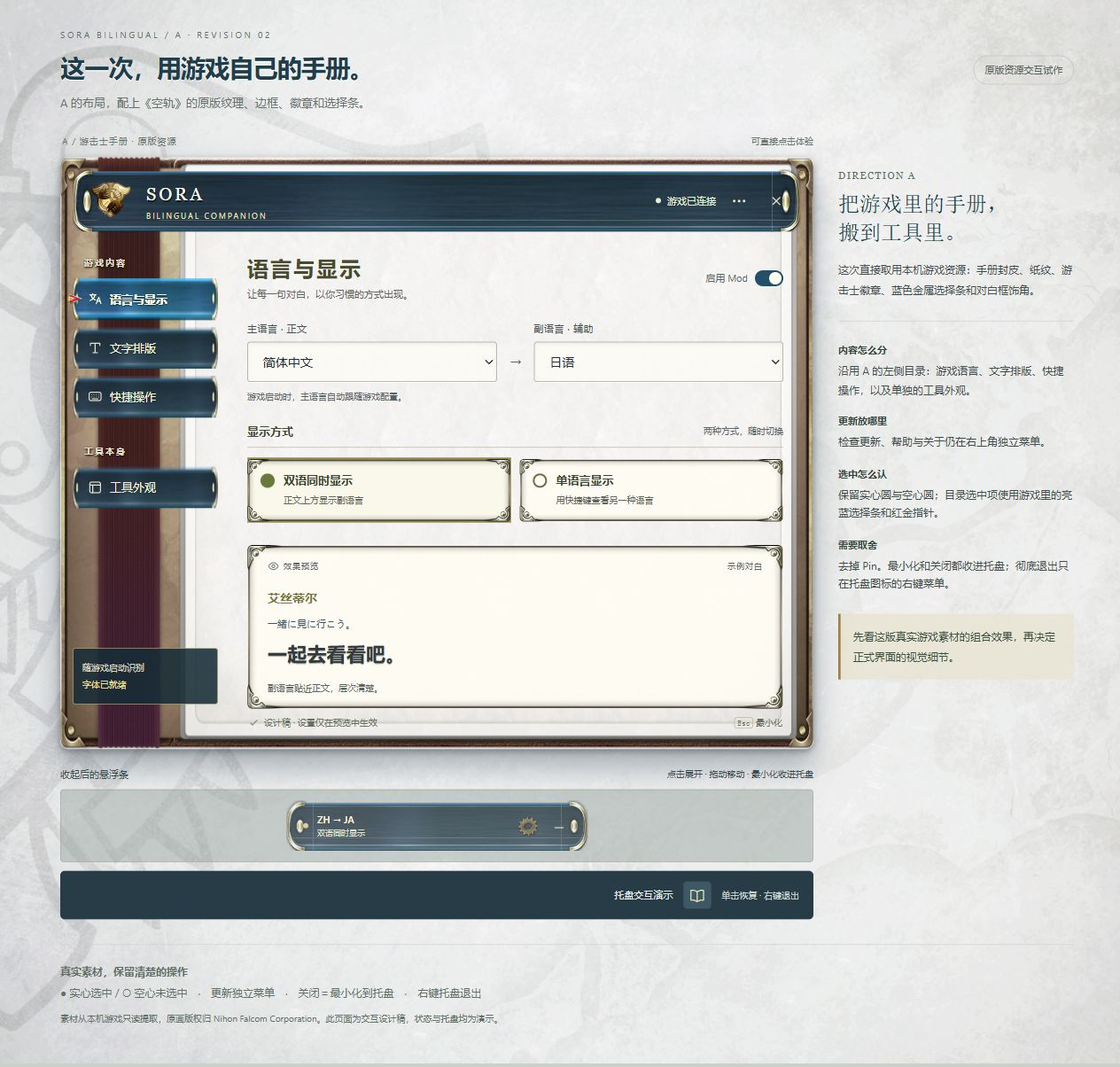
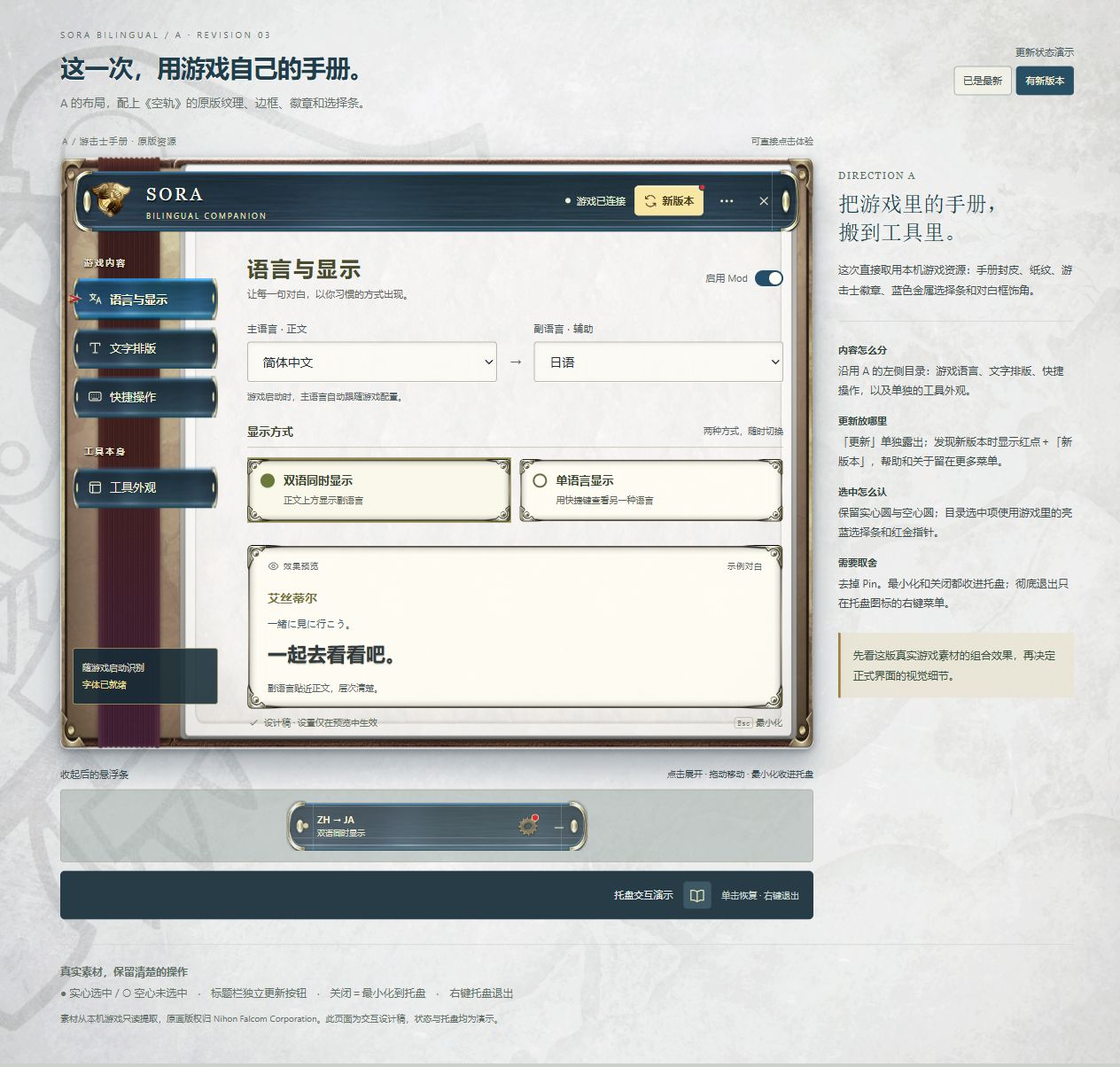
docs: 显示独立更新入口和新版本红点提示

diff --git a/docs/ui-concepts/concepts.js b/docs/ui-concepts/concepts.js
@@ -17,22 +17,22 @@ const paths={
 };
 const icon=n=>`<svg viewBox="0 0 24 24" aria-hidden="true">${paths[n]||paths.compass}</svg>`;
 const concepts={
- a:{name:'游击士手册',title:'熟悉的冒险，<br>更安静的设置。',text:'保留轨迹式手册的纸色、细金线与青绿点缀。用目录组织功能，把界面从“表单堆叠”变成一本小手册。',structure:'左侧分为「游戏内容」和「工具本身」，每页只处理一类任务。',updates:'右上角「更多」收纳检查更新、帮助与关于。',selection:'选中为青绿色实心圆；未选中为空心圆。背景轻微着色加强识别。',tradeoff:'目录占一点横向空间，换来更清楚的位置感。',recommend:'推荐 A：它最贴近游戏的气质，同时保留桌面工具应有的清晰与克制。'},
- b:{name:'清透面板',title:'一边调整，<br>一边看见。',text:'以冷白、浅灰和深蓝降低装饰感。把效果预览放在右侧，日常设置聚在左侧，调整更直接。',structure:'只留游戏文本、快捷操作、工具外观三组；排版从游戏文本页展开。',updates:'标题栏里的独立菜单，不占用任何内容页签。',selection:'深蓝实心圆＋淡蓝底；同组候选保持一致大小。',tradeoff:'最容易上手，但游戏风格较淡；并排预览需要稍宽的窗口。',recommend:'如果你更看重清爽和效率，选 B。分区简单，设置结果能随手对照。'},
- c:{name:'夜间控制台',title:'想调哪一项，<br>就展开哪一项。',text:'石墨底色搭配低饱和薄荷绿。将设置折叠成几段，收起时仍保留当前值，适合夜间和小屏幕。',structure:'一页四个折叠分组，常用语言默认展开，其他分组按需打开。',updates:'右上角工具菜单，更新与帮助不参与设置分组。',selection:'明亮的薄荷实心圆，暗底空心圆；不依赖细描边差异。',tradeoff:'多个分组展开后需要滚动；深色也更偏离游戏本身的纸色菜单。',recommend:'如果你经常夜间玩游戏、希望减少页面切换，选 C。'}
+ a:{name:'游击士手册',title:'熟悉的冒险，<br>更安静的设置。',text:'保留轨迹式手册的纸色、细金线与青绿点缀。用目录组织功能，把界面从“表单堆叠”变成一本小手册。',structure:'左侧分为「游戏内容」和「工具本身」，每页只处理一类任务。',updates:'标题栏单独显示「更新」，有新版本时显示红点和文字提示。',selection:'选中为青绿色实心圆；未选中为空心圆。背景轻微着色加强识别。',tradeoff:'目录占一点横向空间，换来更清楚的位置感。',recommend:'推荐 A：它最贴近游戏的气质，同时保留桌面工具应有的清晰与克制。'},
+ b:{name:'清透面板',title:'一边调整，<br>一边看见。',text:'以冷白、浅灰和深蓝降低装饰感。把效果预览放在右侧，日常设置聚在左侧，调整更直接。',structure:'只留游戏文本、快捷操作、工具外观三组；排版从游戏文本页展开。',updates:'标题栏的独立「更新」按钮，有新版本时显示红点。',selection:'深蓝实心圆＋淡蓝底；同组候选保持一致大小。',tradeoff:'最容易上手，但游戏风格较淡；并排预览需要稍宽的窗口。',recommend:'如果你更看重清爽和效率，选 B。分区简单，设置结果能随手对照。'},
+ c:{name:'夜间控制台',title:'想调哪一项，<br>就展开哪一项。',text:'石墨底色搭配低饱和薄荷绿。将设置折叠成几段，收起时仍保留当前值，适合夜间和小屏幕。',structure:'一页四个折叠分组，常用语言默认展开，其他分组按需打开。',updates:'标题栏独立「更新」入口；帮助与关于留在更多菜单。',selection:'明亮的薄荷实心圆，暗底空心圆；不依赖细描边差异。',tradeoff:'多个分组展开后需要滚动；深色也更偏离游戏本身的纸色菜单。',recommend:'如果你经常夜间玩游戏、希望减少页面切换，选 C。'}
 };
 if(document.body.classList.contains('game-resource-prototype')){
- concepts.a={name:'游击士手册 · 原版资源',title:'把游戏里的手册，<br>搬到工具里。',text:'这次直接取用本机游戏资源：手册封皮、纸纹、游击士徽章、蓝色金属选择条和对白框饰角。',structure:'沿用 A 的左侧目录：游戏语言、文字排版、快捷操作，以及单独的工具外观。',updates:'检查更新、帮助与关于仍在右上角独立菜单。',selection:'保留实心圆与空心圆；目录选中项使用游戏里的亮蓝选择条和红金指针。',tradeoff:'去掉 Pin。最小化和关闭都收进托盘；彻底退出只在托盘图标的右键菜单。',recommend:'先看这版真实游戏素材的组合效果，再决定正式界面的视觉细节。'};
+ concepts.a={name:'游击士手册 · 原版资源',title:'把游戏里的手册，<br>搬到工具里。',text:'这次直接取用本机游戏资源：手册封皮、纸纹、游击士徽章、蓝色金属选择条和对白框饰角。',structure:'沿用 A 的左侧目录：游戏语言、文字排版、快捷操作，以及单独的工具外观。',updates:'「更新」单独露出；发现新版本时显示红点＋「新版本」，帮助和关于留在更多菜单。',selection:'保留实心圆与空心圆；目录选中项使用游戏里的亮蓝选择条和红金指针。',tradeoff:'去掉 Pin。最小化和关闭都收进托盘；彻底退出只在托盘图标的右键菜单。',recommend:'先看这版真实游戏素材的组合效果，再决定正式界面的视觉细节。'};
 }
 const locales=[['zh','简体中文','ZH'],['ja','日语','JA'],['en','英语','EN'],['zt','繁體中文','ZT'],['ko','한국어','KO'],['fr','Français','FR'],['de','Deutsch','DE'],['es','Español','ES']];
 const lines={zh:'一起去看看吧。',ja:'一緒に見に行こう。',en:"Let's go take a look.",zt:'一起去看看吧。',ko:'같이 보러 가자.',fr:'Allons y jeter un œil.',de:'Sehen wir es uns an.',es:'Vamos a echar un vistazo.'};
 const names={zh:'艾丝蒂尔',ja:'エステル',en:'Estelle',zt:'艾絲蒂爾',ko:'에스텔',fr:'Estelle',de:'Estelle',es:'Estelle'};
-const state={concept:new URLSearchParams(location.search).get('concept')||'a',page:'language',primary:'zh',secondary:'ja',mode:'dual',single:'hold',held:false,enabled:true,transparency:25,scale:60,primaryScale:100,gap:6,offset:0,rubyGap:2,rubyOffset:0,textOpacity:100,tint:'default',device:'ps',autoUpdate:true,open:new Set(['language'])};
+const state={concept:new URLSearchParams(location.search).get('concept')||'a',page:'language',primary:'zh',secondary:'ja',mode:'dual',single:'hold',held:false,enabled:true,transparency:25,scale:60,primaryScale:100,gap:6,offset:0,rubyGap:2,rubyOffset:0,textOpacity:100,tint:'default',device:'ps',autoUpdate:true,updateAvailable:document.body.dataset.updateAvailable==='true',updateOpen:false,open:new Set(['language'])};
 if(!concepts[state.concept])state.concept='a';
 let toastTimer;
 function toast(text){const el=document.querySelector('#toast');el.textContent=text;el.classList.add('show');clearTimeout(toastTimer);toastTimer=setTimeout(()=>el.classList.remove('show'),3000);}
 const btn=(n,label,attrs='')=>`<button class="icon-btn" aria-label="${label}" title="${label}" ${attrs}>${icon(n)}</button>`;
-function switchControl(key,label){return `<button class="switch" role="switch" aria-checked="${state[key]}" aria-label="${label}" data-switch="${key}"></button>`;}
+function switchControl(key,label){return `<button id="switch-${key}" class="switch" role="switch" aria-checked="${state[key]}" aria-label="${label}" data-switch="${key}"></button>`;}
 function languageOptions(selected){return locales.map(([id,label])=>`<option value="${id}" ${id===selected?'selected':''}>${label}</option>`).join('');}
 function pageTitle(title,subtitle,power=false){return `<div class="page-title"><div><h2>${title}</h2><p>${subtitle}</p></div>${power?`<div class="power">启用 Mod ${switchControl('enabled','启用双语 Mod')}</div>`:''}</div>`;}
 function languageFields(){return `<div class="language-pair"><label><span class="field-label">主语言 · 正文</span><select id="primary" data-field="primary" aria-label="主语言">${languageOptions(state.primary)}</select></label><div class="pair-arrow">→</div><label><span class="field-label">副语言 · 辅助</span><select id="secondary" data-field="secondary" aria-label="副语言">${languageOptions(state.secondary)}</select></label></div><p class="small-note">游戏启动时，主语言自动跟随游戏配置。</p><div class="section-label">显示方式 <span>两种方式，随时切换</span></div><div class="mode-options">${[['dual','双语同时显示','正文上方显示副语言'],['single','单语言显示','用快捷键查看另一种语言']].map(([v,t,d])=>`<label class="choice"><input id="mode-${v}" type="radio" name="mode" value="${v}" data-field="mode" ${state.mode===v?'checked':''}><span><strong>${t}</strong><small>${d}</small></span></label>`).join('')}</div>${state.mode==='single'?`<div class="single-options" role="group" aria-label="单语言切换方式">${[['hold','按住查看'],['toggle','按一下切换']].map(([v,t])=>`<label class="inline-radio"><input id="single-${v}" type="radio" name="single" data-field="single" value="${v}" ${state.single===v?'checked':''}>${t}</label>`).join('')}</div>`:''}`;}
@@ -49,19 +49,22 @@ function appearancePage(){return `${pageTitle('工具外观','减少遮挡，把
 const pages={language:languagePage,type:typePage,input:inputPage,appearance:appearancePage};
 function navItem(page,label,n){return `<button class="nav-item ${state.page===page?'active':''}" data-page="${page}" ${state.page===page?'aria-current="page"':''}>${icon(n)}${label}</button>`;}
 function accordionPage(){const groups=[['language','语言与显示','language',state.mode==='dual'?`双语 · ${state.primary.toUpperCase()} / ${state.secondary.toUpperCase()}`:'单语言',languageFields()+'<details class="detail-disclosure"><summary>查看示例效果</summary>'+preview()+'</details>'],['type','文字排版','type',`副语言 ${state.scale}%`,typographyFields()],['input','快捷操作','keyboard','键盘 / 手柄',inputFields()],['appearance','工具外观','panel',`背景透明 ${state.transparency}%`,appearanceFields()]];return `${pageTitle('冒险控制台','常用的留在眼前，其余按需展开。',true)}${groups.map(([key,title,n,desc,body])=>`<details class="accordion" data-group="${key}" ${state.open.has(key)?'open':''}><summary>${icon(n)}${title}<small>${desc}</small></summary><div class="accordion-inner">${body}</div></details>`).join('')}`;}
-function menu(){return `<div class="system-menu" id="system-menu" role="menu" aria-label="工具菜单" hidden><div class="menu-caption"><span>Sora Bilingual</span><span>v0.3.26</span></div><button role="menuitem" data-demo="update">${icon('refresh')}检查更新</button><button role="menuitemcheckbox" aria-checked="${state.autoUpdate}" data-auto-update>${icon(state.autoUpdate?'check':'info')}自动更新<span style="margin-left:auto;color:var(--muted);font-size:10px">${state.autoUpdate?'已开启':'已关闭'}</span></button><hr><button role="menuitem" data-demo="help">${icon('book')}使用帮助</button><button role="menuitem" data-demo="notes">${icon('file')}发行说明</button><button role="menuitem" data-demo="about">${icon('info')}关于工具</button></div>`;}
-function render(){const focus=document.activeElement?.id;const app=document.querySelector('#app');app.className=`app theme-${state.concept}`;const navigation=state.concept==='a'?`<aside class="sidebar"><div class="nav-category">游戏内容</div>${navItem('language','语言与显示','language')}${navItem('type','文字排版','type')}${navItem('input','快捷操作','keyboard')}<div class="nav-category second">工具本身</div>${navItem('appearance','工具外观','panel')}<div class="sidebar-foot">随游戏启动识别<span>字体已就绪</span></div></aside>`:'';const tabs=state.concept==='b'?`<nav class="top-nav" aria-label="设置分组">${navItem('language','游戏文本','language')}${navItem('input','快捷操作','keyboard')}${navItem('appearance','工具外观','panel')}</nav>`:'';app.innerHTML=`<header class="chrome"><div class="brand-mark">${icon(state.concept==='a'?'compass':state.concept==='b'?'language':'compass')}</div><div class="brand">SORA<span>BILINGUAL COMPANION</span></div><div class="connected"><i class="dot"></i>游戏已连接</div>${btn('more','更新、帮助与关于','id="menu-trigger" aria-haspopup="menu" aria-expanded="false" data-menu')}${btn('close','最小化到托盘','data-minimize')}</header>${tabs}<div class="app-body">${navigation}<section class="content">${state.concept==='c'?accordionPage():pages[state.page]()}</section></div><footer class="app-footer"><span class="saved">${icon('check')}设计稿 · 设置仅在预览中生效</span><span><kbd>Esc</kbd>最小化</span></footer>${menu()}`;
- document.querySelectorAll('[data-concept]').forEach(el=>el.setAttribute('aria-pressed',el.dataset.concept===state.concept));document.querySelector('#frame-label').textContent=state.concept.toUpperCase()+' / '+concepts[state.concept].name;const c=concepts[state.concept];document.querySelector('#notes').innerHTML=`<div><div class="note-label">DIRECTION ${state.concept.toUpperCase()}</div><h2>${c.title}</h2><p>${c.text}</p></div><dl><div><dt>内容怎么分</dt><dd>${c.structure}</dd></div><div><dt>更新放哪里</dt><dd>${c.updates}</dd></div><div><dt>选中怎么认</dt><dd>${c.selection}</dd></div><div><dt>需要取舍</dt><dd>${c.tradeoff}</dd></div></dl><p class="recommend">${c.recommend}</p>`;updatePreviews();if(focus)document.getElementById(focus)?.focus({preventScroll:true});app.querySelectorAll('[data-group]').forEach(el=>el.addEventListener('toggle',()=>{el.open?state.open.add(el.dataset.group):state.open.delete(el.dataset.group);}));}
-function renderMini(){const small=locales.find(l=>l[0]===state.primary)[2]+' → '+locales.find(l=>l[0]===state.secondary)[2];document.querySelectorAll('#mini,[data-mini]').forEach(el=>{el.className=`mini theme-${state.concept}`;el.style.setProperty('--bar-alpha',1-state.transparency/100);el.style.borderColor=state.transparency===100?'transparent':'';el.innerHTML=`<i class="dot"></i><div class="mini-text">${small}<small>${!state.enabled?'Mod 已停用':state.mode==='dual'?'双语同时显示':state.held?'副语言显示中':'单语言 · 主语言'}</small></div>${btn('settings','展开设置','data-expand')}${btn('minimize','最小化到托盘','data-minimize')}`;});}
+function menu(){return `<div class="system-menu" id="system-menu" role="menu" aria-label="帮助与关于" hidden><div class="menu-caption"><span>Sora Bilingual</span><span>v0.3.26</span></div><button role="menuitem" data-demo="help">${icon('book')}使用帮助</button><button role="menuitem" data-demo="notes">${icon('file')}发行说明</button><button role="menuitem" data-demo="about">${icon('info')}关于工具</button></div>`;}
+function updateButton(){return `<button class="update-button ${state.updateAvailable?'has-update':''}" id="update-trigger" data-update-toggle aria-haspopup="dialog" aria-expanded="${state.updateOpen}" aria-label="${state.updateAvailable?'有新版本，查看更新':'更新，检查新版本'}">${icon('refresh')}<span>${state.updateAvailable?'新版本':'更新'}</span>${state.updateAvailable?'<i class="update-dot" aria-hidden="true"></i>':''}</button>`;}
+function updatePanel(){return `<section class="update-panel" id="update-panel" role="dialog" aria-labelledby="update-heading" ${state.updateOpen?'':'hidden'}><header><div><span class="update-eyebrow">软件更新</span><h3 id="update-heading">${state.updateAvailable?'发现新版本':'当前已是最新版本'}</h3></div>${btn('close','关闭更新面板','data-update-close')}</header><p class="update-version">${state.updateAvailable?'v0.3.26 → v0.3.27 <em>演示版本</em>':'当前版本 v0.3.26'}</p><div class="update-description">${state.updateAvailable?'正式版会在这里展示新版本的修复与改动，查看后即可下载。':'可以随时手动检查，也可以开启自动更新。'}</div><div class="update-preference"><span>自动更新</span>${switchControl('autoUpdate','自动更新')}</div><button class="update-action" data-update-action>${state.updateAvailable?'下载更新':'检查更新'}</button><p class="update-demo-note">交互演示，不会联网或下载安装。</p></section>`;}
+function closeUpdatePanel(){state.updateOpen=false;const panel=document.querySelector('#update-panel');if(panel)panel.hidden=true;document.querySelector('#update-trigger')?.setAttribute('aria-expanded','false');}
+function render(){const focus=document.activeElement?.id;const app=document.querySelector('#app');app.className=`app theme-${state.concept}`;const navigation=state.concept==='a'?`<aside class="sidebar"><div class="nav-category">游戏内容</div>${navItem('language','语言与显示','language')}${navItem('type','文字排版','type')}${navItem('input','快捷操作','keyboard')}<div class="nav-category second">工具本身</div>${navItem('appearance','工具外观','panel')}<div class="sidebar-foot">随游戏启动识别<span>字体已就绪</span></div></aside>`:'';const tabs=state.concept==='b'?`<nav class="top-nav" aria-label="设置分组">${navItem('language','游戏文本','language')}${navItem('input','快捷操作','keyboard')}${navItem('appearance','工具外观','panel')}</nav>`:'';app.innerHTML=`<header class="chrome"><div class="brand-mark">${icon(state.concept==='a'?'compass':state.concept==='b'?'language':'compass')}</div><div class="brand">SORA<span>BILINGUAL COMPANION</span></div><div class="connected"><i class="dot"></i>游戏已连接</div>${updateButton()}${btn('more','帮助与关于','id="menu-trigger" aria-haspopup="menu" aria-expanded="false" data-menu')}${btn('close','最小化到托盘','data-minimize')}</header>${tabs}<div class="app-body">${navigation}<section class="content">${state.concept==='c'?accordionPage():pages[state.page]()}</section></div><footer class="app-footer"><span class="saved">${icon('check')}设计稿 · 设置仅在预览中生效</span><span><kbd>Esc</kbd>最小化</span></footer>${menu()}${updatePanel()}`;
+ document.querySelectorAll('[data-update-state]').forEach(el=>el.setAttribute('aria-pressed',(el.dataset.updateState==='available')===state.updateAvailable));document.querySelectorAll('[data-concept]').forEach(el=>el.setAttribute('aria-pressed',el.dataset.concept===state.concept));document.querySelector('#frame-label').textContent=state.concept.toUpperCase()+' / '+concepts[state.concept].name;const c=concepts[state.concept];document.querySelector('#notes').innerHTML=`<div><div class="note-label">DIRECTION ${state.concept.toUpperCase()}</div><h2>${c.title}</h2><p>${c.text}</p></div><dl><div><dt>内容怎么分</dt><dd>${c.structure}</dd></div><div><dt>更新放哪里</dt><dd>${c.updates}</dd></div><div><dt>选中怎么认</dt><dd>${c.selection}</dd></div><div><dt>需要取舍</dt><dd>${c.tradeoff}</dd></div></dl><p class="recommend">${c.recommend}</p>`;updatePreviews();if(focus)document.getElementById(focus)?.focus({preventScroll:true});app.querySelectorAll('[data-group]').forEach(el=>el.addEventListener('toggle',()=>{el.open?state.open.add(el.dataset.group):state.open.delete(el.dataset.group);}));}
+function renderMini(){const small=locales.find(l=>l[0]===state.primary)[2]+' → '+locales.find(l=>l[0]===state.secondary)[2];document.querySelectorAll('#mini,[data-mini]').forEach(el=>{el.className=`mini theme-${state.concept}`;el.style.setProperty('--bar-alpha',1-state.transparency/100);el.style.borderColor=state.transparency===100?'transparent':'';el.innerHTML=`<i class="dot"></i><div class="mini-text">${small}<small>${!state.enabled?'Mod 已停用':state.mode==='dual'?'双语同时显示':state.held?'副语言显示中':'单语言 · 主语言'}</small></div>${btn('settings',state.updateAvailable?'展开设置，有新版本':'展开设置',`data-expand data-update-available="${state.updateAvailable}"`)}${btn('minimize','最小化到托盘','data-minimize')}`;});}
 function updatePreviews(){document.querySelectorAll('.sampletext').forEach(el=>el.innerHTML=sampleText());document.querySelectorAll('.preview').forEach(el=>el.classList.toggle('disabled-preview',!state.enabled));document.querySelectorAll('.sampletext').forEach(el=>{el.style.transform=`translateY(${state.mode==='dual'?state.offset:0}px)`;const secondary=el.querySelector('.secondary');if(secondary){secondary.style.transform=`translateX(${state.rubyOffset}px)`;secondary.style.marginTop=state.rubyGap+'px';secondary.style.marginBottom=state.gap+'px';}});renderMini();}
-document.addEventListener('click',e=>{const el=e.target.closest('button');if(!el)return;if(el.dataset.concept){state.concept=el.dataset.concept;state.page='language';state.open=new Set(['language']);history.replaceState(null,'','?concept='+state.concept);render();return;}if(el.dataset.page){state.page=el.dataset.page;render();return;}if(el.hasAttribute('data-menu')){const m=document.querySelector('#system-menu');m.hidden=!m.hidden;el.setAttribute('aria-expanded',!m.hidden);if(!m.hidden)m.querySelector('button').focus();return;}if(el.dataset.switch){state[el.dataset.switch]=!state[el.dataset.switch];render();return;}if(el.hasAttribute('data-auto-update')){state.autoUpdate=!state.autoUpdate;el.setAttribute('aria-checked',state.autoUpdate);el.innerHTML=icon(state.autoUpdate?'check':'info')+'自动更新<span style="margin-left:auto;font-size:10px">'+(state.autoUpdate?'已开启':'已关闭')+'</span>';return;}if(el.dataset.tint){state.tint=el.dataset.tint;document.querySelectorAll('[data-tint]').forEach(b=>b.setAttribute('aria-pressed',b.dataset.tint===state.tint));updatePreviews();return;}if(el.hasAttribute('data-minimize')){minimizeToTray();return;}if(el.hasAttribute('data-tray-restore')){restoreFromTray();return;}if(el.hasAttribute('data-tray-quit')){minimizeToTray();document.querySelector('#tray-menu').hidden=true;toast('演示：工具已彻底退出。点击托盘图标可重新体验。');return;}if(el.hasAttribute('data-expand')){document.querySelector('#app').style.visibility='visible';return;}if(el.hasAttribute('data-collapse')){document.querySelector('#app').style.visibility='hidden';toast('已收起预览窗口。点击下方悬浮条可重新展开。');return;}if(el.hasAttribute('data-hold')&&state.single==='toggle'){state.held=!state.held;updatePreviews();return;}const messages={update:'设计稿：正式版在此检查更新，本预览未发起网络请求。',help:'使用帮助作为独立入口打开，不混入游戏文本设置。',notes:'发行说明从工具菜单打开，保留版本和修复记录。',about:'Sora Bilingual · 游戏双语显示工具。',record:'设计稿：正式版点击此处录制键盘或手柄组合。',quit:'彻底退出位于托盘图标的右键菜单。'};if(el.dataset.demo)toast(messages[el.dataset.demo]);});
-document.addEventListener('click',e=>{const menu=document.querySelector('#system-menu');if(menu&&!menu.hidden&&!e.target.closest('[data-menu],.system-menu')){menu.hidden=true;document.querySelector('#menu-trigger').setAttribute('aria-expanded','false');}});
+document.addEventListener('click',e=>{const el=e.target.closest('button');if(!el)return;if(el.dataset.updateState){state.updateAvailable=el.dataset.updateState==='available';render();return;}if(el.hasAttribute('data-update-toggle')){state.updateOpen=!state.updateOpen;render();if(state.updateOpen)document.querySelector('[data-update-close]').focus();return;}if(el.hasAttribute('data-update-close')){closeUpdatePanel();document.querySelector('#update-trigger').focus();return;}if(el.hasAttribute('data-update-action')){toast(state.updateAvailable?'演示：正式版在此下载更新。本次未发起下载或安装。':'演示：检查完成，当前已是最新版本。');return;}if(el.dataset.concept){state.concept=el.dataset.concept;state.page='language';state.open=new Set(['language']);history.replaceState(null,'','?concept='+state.concept);render();return;}if(el.dataset.page){state.page=el.dataset.page;render();return;}if(el.hasAttribute('data-menu')){closeUpdatePanel();const m=document.querySelector('#system-menu');m.hidden=!m.hidden;el.setAttribute('aria-expanded',!m.hidden);if(!m.hidden)m.querySelector('button').focus();return;}if(el.dataset.switch){state[el.dataset.switch]=!state[el.dataset.switch];render();return;}if(el.dataset.tint){state.tint=el.dataset.tint;document.querySelectorAll('[data-tint]').forEach(b=>b.setAttribute('aria-pressed',b.dataset.tint===state.tint));updatePreviews();return;}if(el.hasAttribute('data-minimize')){minimizeToTray();return;}if(el.hasAttribute('data-tray-restore')){restoreFromTray();return;}if(el.hasAttribute('data-tray-quit')){minimizeToTray();document.querySelector('#tray-menu').hidden=true;toast('演示：工具已彻底退出。点击托盘图标可重新体验。');return;}if(el.hasAttribute('data-expand')){document.querySelector('#app').style.visibility='visible';return;}if(el.hasAttribute('data-collapse')){document.querySelector('#app').style.visibility='hidden';toast('已收起预览窗口。点击下方悬浮条可重新展开。');return;}if(el.hasAttribute('data-hold')&&state.single==='toggle'){state.held=!state.held;updatePreviews();return;}const messages={update:'设计稿：正式版在此检查更新，本预览未发起网络请求。',help:'使用帮助作为独立入口打开，不混入游戏文本设置。',notes:'发行说明从工具菜单打开，保留版本和修复记录。',about:'Sora Bilingual · 游戏双语显示工具。',record:'设计稿：正式版点击此处录制键盘或手柄组合。',quit:'彻底退出位于托盘图标的右键菜单。'};if(el.dataset.demo)toast(messages[el.dataset.demo]);});
+document.addEventListener('click',e=>{if(state.updateOpen&&!e.target.closest('#update-panel,[data-update-toggle],[data-update-state]'))closeUpdatePanel();const menu=document.querySelector('#system-menu');if(menu&&!menu.hidden&&!e.target.closest('[data-menu],.system-menu')){menu.hidden=true;document.querySelector('#menu-trigger').setAttribute('aria-expanded','false');}});
 document.addEventListener('change',e=>{if(e.target.dataset.field){state[e.target.dataset.field]=e.target.value;state.held=false;render();}if(e.target.hasAttribute('data-demo-select'))toast('此处管理工具界面语言，与游戏的主、副语言分开。');});
 document.addEventListener('input',e=>{const key=e.target.dataset.range;if(!key)return;state[key]=Number(e.target.value);document.querySelectorAll(`[data-output="${key}"]`).forEach(el=>el.value=state[key]+el.dataset.unit);updatePreviews();});
 document.addEventListener('wheel',e=>{if(e.target.matches('select'))e.preventDefault();},{passive:false});
 document.addEventListener('pointerdown',e=>{if(e.target.closest('[data-hold]')&&state.single==='hold'){state.held=true;updatePreviews();}});
 document.addEventListener('pointerup',()=>{if(state.single==='hold'&&state.held){state.held=false;updatePreviews();}});
-document.addEventListener('keydown',e=>{const trayMenu=document.querySelector('#tray-menu');if(e.key==='Escape'&&trayMenu&&!trayMenu.hidden){trayMenu.hidden=true;document.querySelector('.tray-icon').focus();return;}const m=document.querySelector('#system-menu');if(e.key==='Escape'){if(!m.hidden){m.hidden=true;document.querySelector('#menu-trigger').setAttribute('aria-expanded','false');document.querySelector('#menu-trigger').focus();}else{minimizeToTray();}return;}if(!m.hidden&&['ArrowDown','ArrowUp'].includes(e.key)){e.preventDefault();const items=[...m.querySelectorAll('button')],i=items.indexOf(document.activeElement);items[(i+(e.key==='ArrowDown'?1:-1)+items.length)%items.length].focus();}});
+document.addEventListener('keydown',e=>{if(e.key==='Escape'&&state.updateOpen){closeUpdatePanel();document.querySelector('#update-trigger').focus();return;}const trayMenu=document.querySelector('#tray-menu');if(e.key==='Escape'&&trayMenu&&!trayMenu.hidden){trayMenu.hidden=true;document.querySelector('.tray-icon').focus();return;}const m=document.querySelector('#system-menu');if(e.key==='Escape'){if(!m.hidden){m.hidden=true;document.querySelector('#menu-trigger').setAttribute('aria-expanded','false');document.querySelector('#menu-trigger').focus();}else{minimizeToTray();}return;}if(!m.hidden&&['ArrowDown','ArrowUp'].includes(e.key)){e.preventDefault();const items=[...m.querySelectorAll('button')],i=items.indexOf(document.activeElement);items[(i+(e.key==='ArrowDown'?1:-1)+items.length)%items.length].focus();}});
 let drag=null;document.addEventListener('pointerdown',e=>{const mini=e.target.closest('#mini');if(!mini||e.target.closest('button')||e.button!==0)return;drag={x:e.clientX,y:e.clientY,moved:false};mini.setPointerCapture(e.pointerId);});document.addEventListener('pointermove',e=>{if(!drag)return;const dx=e.clientX-drag.x,dy=e.clientY-drag.y;if(Math.abs(dx)+Math.abs(dy)>8)drag.moved=true;if(drag.moved)document.querySelector('#mini').style.transform=`translate(${Math.max(-60,Math.min(60,dx))}px,${Math.max(-10,Math.min(10,dy))}px)`;});document.addEventListener('pointerup',()=>{if(!drag)return;if(!drag.moved)document.querySelector('#app').style.visibility='visible';document.querySelector('#mini').style.transform='';drag=null;});
 render();
 

diff --git a/docs/ui-concepts/updates.css b/docs/ui-concepts/updates.css
@@ -1,0 +1,31 @@
+.update-button{position:relative;display:inline-flex;align-items:center;gap:6px;padding:7px 10px;border:1px solid var(--line);border-radius:5px;font-size:12px;white-space:nowrap;min-height:32px;color:var(--accent)}
+.update-button svg{width:15px;height:15px}
+.update-button:hover{background:var(--soft)}
+.update-button.has-update{border-color:var(--gold);background:var(--soft);font-weight:600}
+.update-dot{position:absolute;right:-3px;top:-3px;width:8px;height:8px;background:#d83334;border:1.5px solid var(--surface);border-radius:50%}
+.update-panel{position:absolute;top:61px;right:65px;z-index:7;width:322px;max-width:calc(100% - 30px);padding:20px;background:var(--surface);color:var(--ink);border:1px solid var(--line);border-radius:8px;box-shadow:0 12px 28px #13252c38}
+.update-panel header{display:flex;align-items:flex-start;justify-content:space-between;gap:8px}
+.update-eyebrow{font-size:10px;color:var(--muted)}
+.update-panel h3{font-size:18px;line-height:1.4;margin-top:4px}
+.update-version{font-size:12px;color:var(--accent);margin:14px 0}
+.update-version em{font-size:10px;font-style:normal;background:var(--soft);padding:2px 5px;margin-left:5px;color:var(--muted)}
+.update-description{font-size:12px;line-height:1.8;padding:12px 0;border-top:1px solid var(--line);border-bottom:1px solid var(--line)}
+.update-preference{display:flex;align-items:center;justify-content:space-between;font-size:12px;padding:15px 0}
+.app .update-action{background:var(--accent);color:var(--surface);width:100%;padding:10px;border-radius:4px;font-size:12px;font-weight:600}
+.update-action:hover{filter:brightness(1.12)}
+.update-demo-note{font-size:10px;color:var(--muted);text-align:center;margin-top:10px}
+.update-demo{flex:none;color:#475b5e;font-size:11px;text-align:right;display:flex;flex-direction:column;gap:7px}
+.update-demo>div{display:flex;gap:5px}
+.update-demo button{padding:7px 10px;border:1px solid #859891;background:#f5f4e9c9;border-radius:4px;font-size:11px;color:#344746}
+.update-demo button[aria-pressed=true]{background:#294f64;color:#fff6d7;border-color:#294f64}
+.mini [data-expand]{position:relative}
+.mini [data-expand][data-update-available=true]:after{content:"";position:absolute;right:0;top:0;width:7px;height:7px;background:#d83334;border:1px solid #fff6d7;border-radius:50%}
+.game-resource-prototype .update-button{color:#f6ecc3;border-color:#bbad74;background:#061f3238}
+.game-resource-prototype .update-button.has-update{background:#f8e7a4;color:#49391c;border-color:#eee0b4;box-shadow:inset 0 1px #fff8dd}
+.game-resource-prototype .update-button:not(.has-update):hover{background:#ffffff22}
+.game-resource-prototype .update-dot{border-color:#203e50}
+.game-resource-prototype .update-panel{top:75px;right:63px;border:0;border-radius:6px;background:#fffdf3;border-image-source:url('game-assets/dialogue-frame.png');border-image-slice:28 fill;border-image-width:17px;padding:22px}
+.game-resource-prototype .update-panel h3{color:#4b512f}
+.game-resource-prototype .update-panel .icon-btn:hover{background:#dadac7}
+.game-resource-prototype .update-panel .update-action{background:transparent;color:#fff5ce;border-image-source:url('game-assets/blue-bar-selected.png');border-image-slice:18 48 fill;border-image-width:13px 25px;padding:13px 20px;text-shadow:0 1px #163144}
+@media(max-width:680px){.studio-head{flex-wrap:wrap;gap:13px}.update-demo{text-align:left}.update-demo>div{gap:6px}.chrome .brand span{display:none}.chrome .connected{font-size:10px}.chrome .brand{margin-right:auto}.update-button{font-size:11px;padding:7px 8px}.update-panel{right:15px}.game-resource-prototype .update-panel{right:22px}.game-resource-prototype .chrome{gap:6px}}

diff --git a/docs/ui-concepts/index.html b/docs/ui-concepts/index.html
@@ -1,6 +1,6 @@
 <!doctype html>
 <html lang="zh-CN">
-<head><meta charset="utf-8"><meta name="viewport" content="width=device-width,initial-scale=1"><title>Sora · 三种界面方案</title><link rel="stylesheet" href="concepts.css"></head>
+<head><meta charset="utf-8"><meta name="viewport" content="width=device-width,initial-scale=1"><title>Sora · 三种界面方案</title><link rel="stylesheet" href="concepts.css"><link rel="stylesheet" href="updates.css?v=3-final"></head>
 <body>
 <header class="studio-head"><div><div class="eyebrow">SORA BILINGUAL / DESIGN STUDY 01</div><h1>给冒险留出更多空间。</h1><p>三个可操作的方向。调整语言、显示方式和透明度，感受各自的布局。</p></div><span class="prototype-note">交互设计稿 · 不连接游戏</span></header>
 <nav class="concept-picker" aria-label="选择界面方案">
@@ -9,7 +9,7 @@
 <button data-concept="c" aria-pressed="false"><span class="letter">C</span><span><strong>夜间控制台</strong><small>石墨与薄荷 · 折叠分组 · 更少跳转</small></span><span class="swatches"><i style="background:#1c2529"></i><i style="background:#83c6b0"></i></span></button>
 </nav>
 <main class="presentation"><div class="stage"><div class="stage-label"><span id="frame-label">A / 游击士手册</span><span>点击控件可体验</span></div><div id="app" class="app theme-a"></div><div class="bar-caption">收起后的悬浮条 <span>单击展开 · 按住拖动 · 最小化到托盘</span></div><div class="bar-stage"><div id="mini" class="mini theme-a"></div></div></div><aside class="design-notes" id="notes"></aside></main>
-<footer class="studio-foot"><span>三套共同约定</span><p>● 选中 / ○ 未选中　·　内容与工具外观分开　·　更新与帮助独立入口　·　只调整背景透明度</p><small>这是界面原型；连接状态、快捷键录制、更新结果均为演示，不会修改已安装工具或游戏。</small></footer>
+<footer class="studio-foot"><span>三套共同约定</span><p>● 选中 / ○ 未选中　·　内容与工具外观分开　·　更新按钮常驻 · 帮助独立入口　·　只调整背景透明度</p><small>这是界面原型；连接状态、快捷键录制、更新结果均为演示，不会修改已安装工具或游戏。</small></footer>
 <div id="toast" role="status" aria-live="polite"></div>
-<script src="concepts.js"></script>
+<script src="concepts.js?v=3-updates"></script>
 </body></html>

diff --git a/docs/ui-concepts/game.html b/docs/ui-concepts/game.html
@@ -6,11 +6,11 @@
   <title>Sora · 原版资源界面试作</title>
   <link rel="stylesheet" href="concepts.css">
   <link rel="stylesheet" href="game.css">
-</head>
-<body class="game-resource-prototype">
+<link rel="stylesheet" href="updates.css?v=3-final"></head>
+<body class="game-resource-prototype" data-update-available="true">
 <header class="studio-head">
-  <div><div class="eyebrow">SORA BILINGUAL / A · REVISION 02</div><h1>这一次，用游戏自己的手册。</h1><p>A 的布局，配上《空轨》的原版纹理、边框、徽章和选择条。</p></div>
-  <span class="prototype-note">原版资源交互试作</span>
+  <div><div class="eyebrow">SORA BILINGUAL / A · REVISION 03</div><h1>这一次，用游戏自己的手册。</h1><p>A 的布局，配上《空轨》的原版纹理、边框、徽章和选择条。</p></div>
+  <div class="update-demo"><span>更新状态演示</span><div><button data-update-state="current" aria-pressed="false">已是最新</button><button data-update-state="available" aria-pressed="true">有新版本</button></div></div>
 </header>
 <main class="presentation">
   <div class="stage">
@@ -21,8 +21,8 @@
   </div>
   <aside class="design-notes" id="notes"></aside>
 </main>
-<footer class="studio-foot"><span>真实素材，保留清楚的操作</span><p>● 实心选中 / ○ 空心未选中　·　更新独立菜单　·　关闭＝最小化到托盘　·　右键托盘退出</p><small>素材从本机游戏只读提取，原画版权归 Nihon Falcom Corporation。此页面为交互设计稿，状态与托盘均为演示。</small></footer>
+<footer class="studio-foot"><span>真实素材，保留清楚的操作</span><p>● 实心选中 / ○ 空心未选中　·　标题栏独立更新按钮　·　关闭＝最小化到托盘　·　右键托盘退出</p><small>素材从本机游戏只读提取，原画版权归 Nihon Falcom Corporation。此页面为交互设计稿，状态与托盘均为演示。</small></footer>
 <div id="toast" role="status" aria-live="polite"></div>
-<script src="concepts.js"></script>
+<script src="concepts.js?v=3-updates"></script>
 </body>
 </html>

diff --git a/docs/ui-concepts/README.md b/docs/ui-concepts/README.md
@@ -20,7 +20,7 @@
 | B 清透面板 | 冷白、深蓝 | 三组任务，设置与效果并排 | 简洁直接，窗口需要较宽 |
 | C 夜间控制台 | 石墨、薄荷绿 | 四个折叠分组，保留当前值摘要 | 切页少，展开多项后需要滚动 |
 
-共同约定：实心圆代表选中，空心圆代表未选中；启用开关位于首屏顶部；主副语言两列；工具界面语言归入工具外观；检查更新、自动更新、帮助和关于位于独立菜单；悬浮条保留齿轮和最小化；窗口关闭也最小化到托盘，退出放入托盘右键菜单；透明度只作用于背景。
+共同约定：实心圆代表选中，空心圆代表未选中；启用开关位于首屏顶部；主副语言两列；工具界面语言归入工具外观；标题栏常驻更新按钮，自动更新位于更新面板，帮助与关于位于更多菜单；悬浮条保留齿轮和最小化；窗口关闭也最小化到托盘，退出放入托盘右键菜单；透明度只作用于背景。
 
 ## 验证与边界
 
@@ -43,3 +43,11 @@
 `game-assets/*.png` 为本机提取产物，沿用仓库忽略规则，不纳入 Git；Git 保存提取脚本、来源记录及界面截图。换电脑后先运行上述提取命令再打开原版资源试作。
 
 本次浏览器检查覆盖：关闭同时隐藏设置窗与悬浮条、托盘右键显示退出菜单、恢复两个窗口、无 Pin 控件、背景 100% 透明时文字保持不透明，以及 1280/660 像素宽度布局。没有浏览器错误日志。
+
+## 更新入口修订
+
+更新以文字按钮常驻标题栏；已是最新时显示“更新”，有新版本时显示“新版本”、红点和金色底。点击打开独立更新面板，包含版本、发行说明区域、自动更新开关和检查／下载入口。帮助与关于继续放在更多菜单。
+
+悬浮条设置齿轮同步显示新版本红点。查看面板不会清掉新版本提示，只有更新状态变回已是最新才消失。页面上方的“已是最新／有新版本”仅用于切换演示状态；示例版本和下载按钮不触发真实更新。
+
+更新入口已通过浏览器交互检查：两种状态互切、红点随状态出现和消失、打开后不误清红点、自动更新开关保留键盘焦点、Esc 只关闭更新面板、帮助菜单不再包含更新项。
